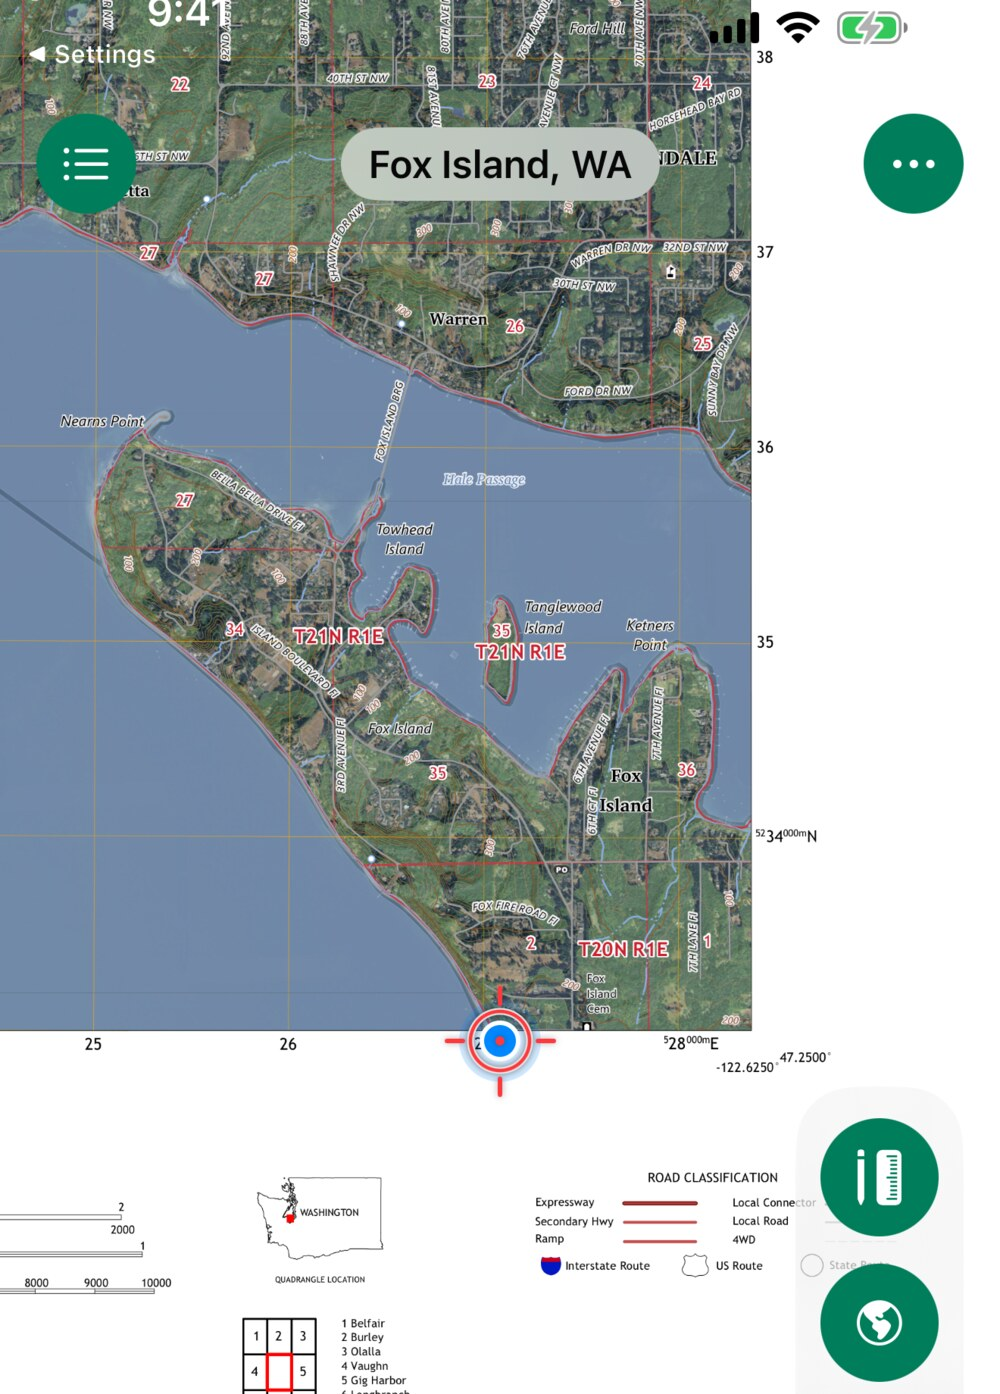
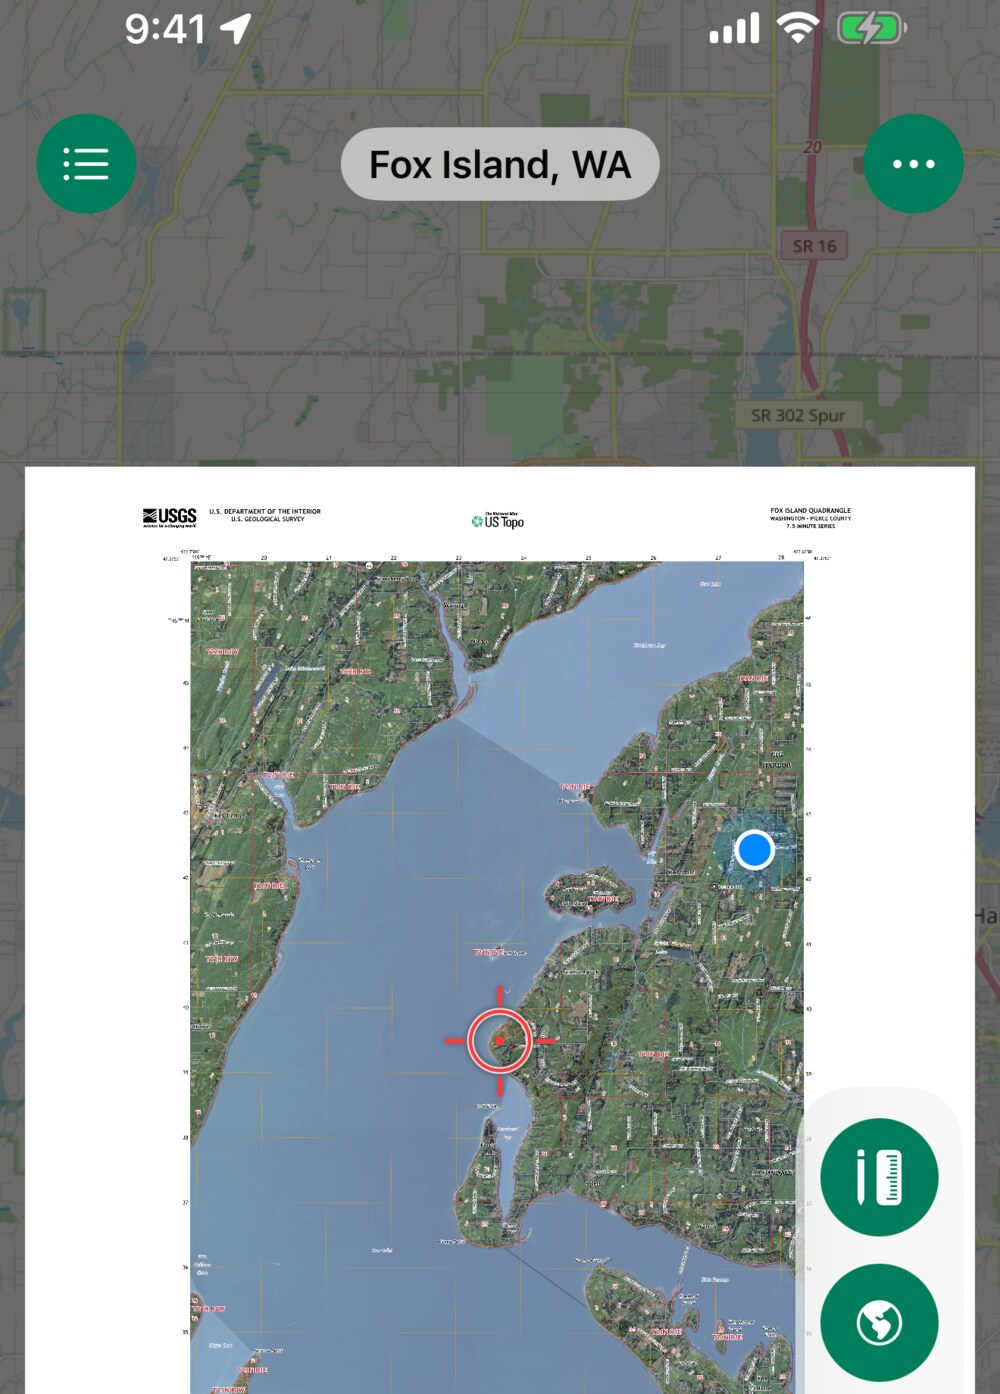
Site: dot clearly on the map; drop the context-map section
- Hero + "See yourself" screenshot now shows the GPS dot on the map,
  not on the sheet's edge (field-test feedback from Jaal).
- Remove the "Your sheet, in the real world" feature section.

diff --git a/index.html b/index.html
@@ -166,15 +166,6 @@
     </div>
 
     <div class="feat">
-      <div class="feat-media"><div class="shot"><img src="shots/2.jpg" width="1000" height="1780" alt="A GeoPDF sheet floating over a dim real-world street map"></div></div>
-      <div>
-        <div class="kicker">Stay oriented</div>
-        <h3>Your sheet, in the real world</h3>
-        <p>A dim live street map sits behind your map sheet so you always know where it fits in the wider world — then disappears when you don't need it. Everything you've loaded works with no connection.</p>
-      </div>
-    </div>
-
-    <div class="feat">
       <div class="feat-media"><div class="shot"><img src="shots/3.jpg" width="1000" height="917" alt="Map My Location options: Topographic, Satellite, Street"></div></div>
       <div>
         <div class="kicker">Make a map anywhere</div>
